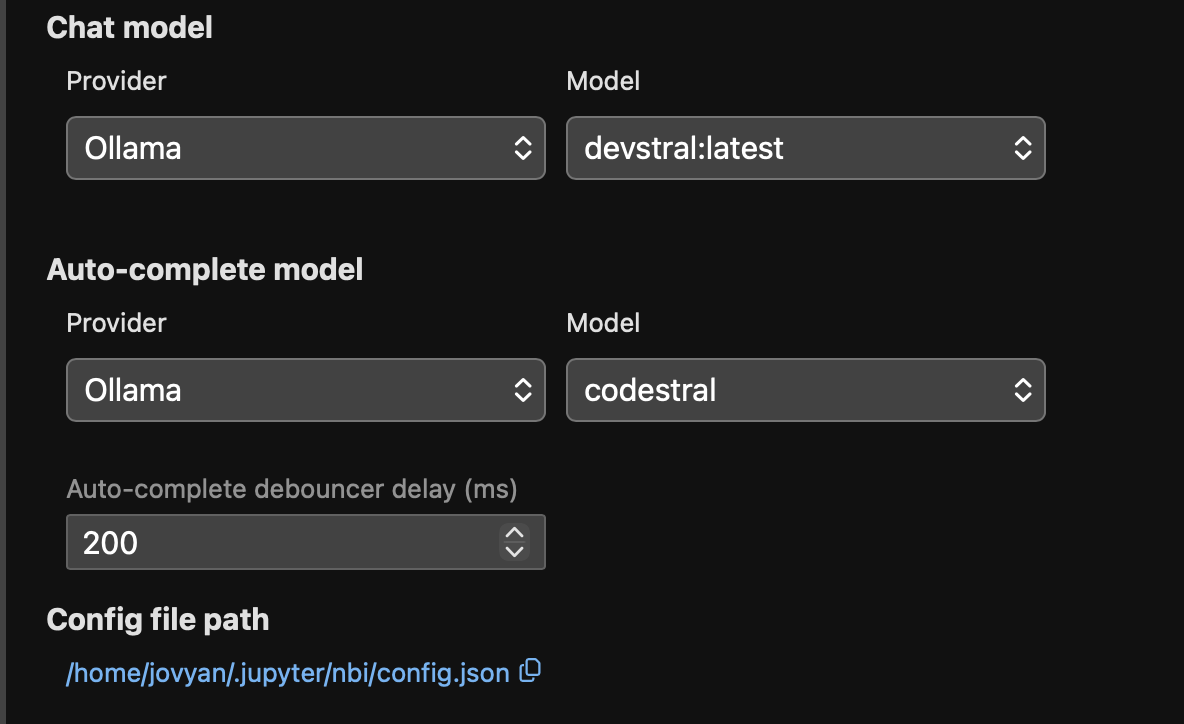
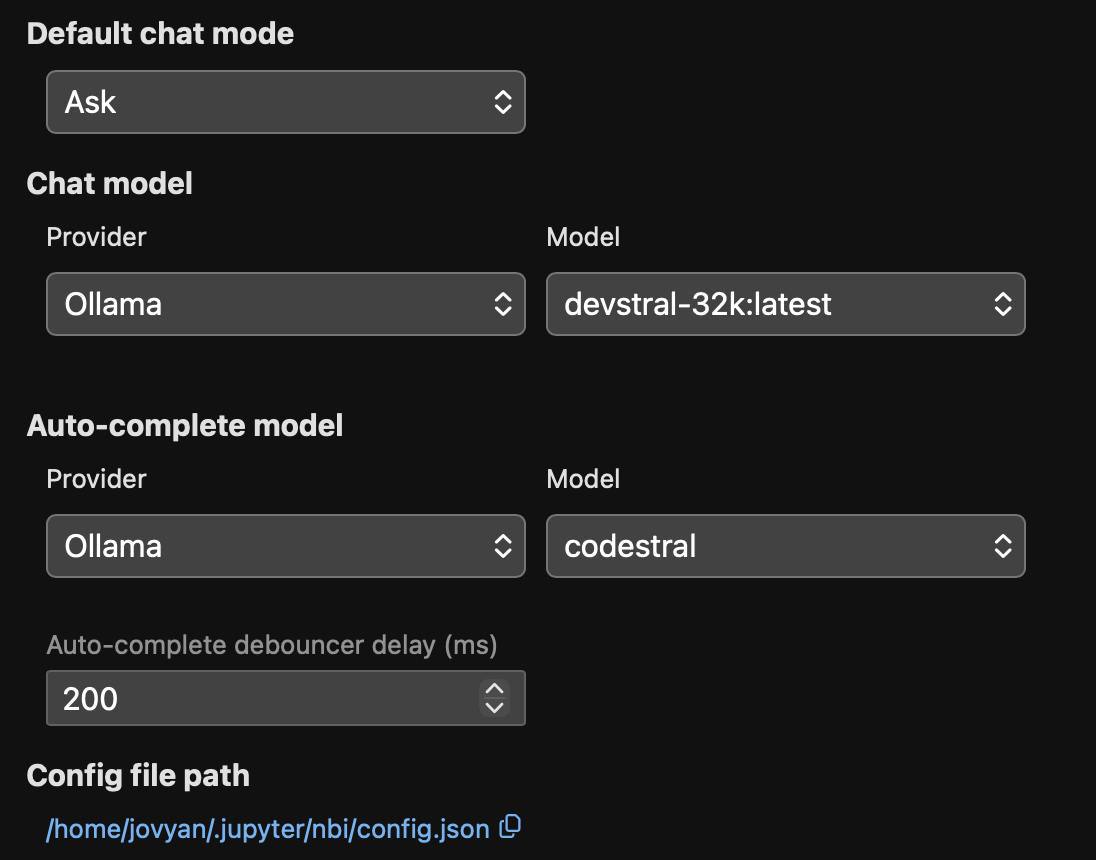
reduce context window

diff --git a/content/en/Getting-Started/Scigent/opencode.md b/content/en/Getting-Started/Scigent/opencode.md
@@ -24,18 +24,32 @@ You can also configure your own model provider:
 - then ctrl+a to connect a different provider
 
 
-You can also self-host a model in Ollama on your computer. For this install Ollama on your system and start the neurodesktop container with these additional docker parameters:
+You can also self-host a model in Ollama on your computer (recommended Apple Silicon with at least 64GB RAM). For this install Ollama on your system and start the neurodesktop container with these additional docker parameters:
 ```
 --add-host=host.docker.internal:host-gateway \
 -e OLLAMA_HOST="http://host.docker.internal:11434" \
 ```
 
-These models work well:
-```
-ollama pull qwen3-coder-next
+This model works well:
+```bash
 ollama pull devstral
+```
+
+We need to extend the context window to make it usable for coding:
+```bash
+echo "FROM devstral:latest
+PARAMETER num_ctx 16000" > Modelfile
+
+ollama create devstral-16k -f Modelfile
+
+rm Modelfile
 ```
 
 Then switch the model to Ollama:
 - ctrl+p 
 - and select switch model 
+
+you can watch the model working and for errors:
+```bash
+tail -f ~/.ollama/logs/server.log
+```

diff --git a/content/en/Getting-Started/Scigent/notebook_intelligence.md b/content/en/Getting-Started/Scigent/notebook_intelligence.md
@@ -25,11 +25,20 @@ You can also self-host a model in Ollama on your computer. For this install Olla
 -e OLLAMA_HOST="http://host.docker.internal:11434" \
 ```
 
-These models work well:
-```
-ollama pull qwen3-coder-next
+This model works well:
+```bash
 ollama pull devstral
 ```
 
+We need to extend the context window to make it usable for coding:
+```bash
+echo "FROM devstral:latest
+PARAMETER num_ctx 16000" > Modelfile
+
+ollama create devstral-16k -f Modelfile
+
+rm Modelfile
+```
+
 Then switch to Ollama in the settings
-![alt text](image.png)
+![NBI Ollama settings](nbi_ollama_settings.png)
